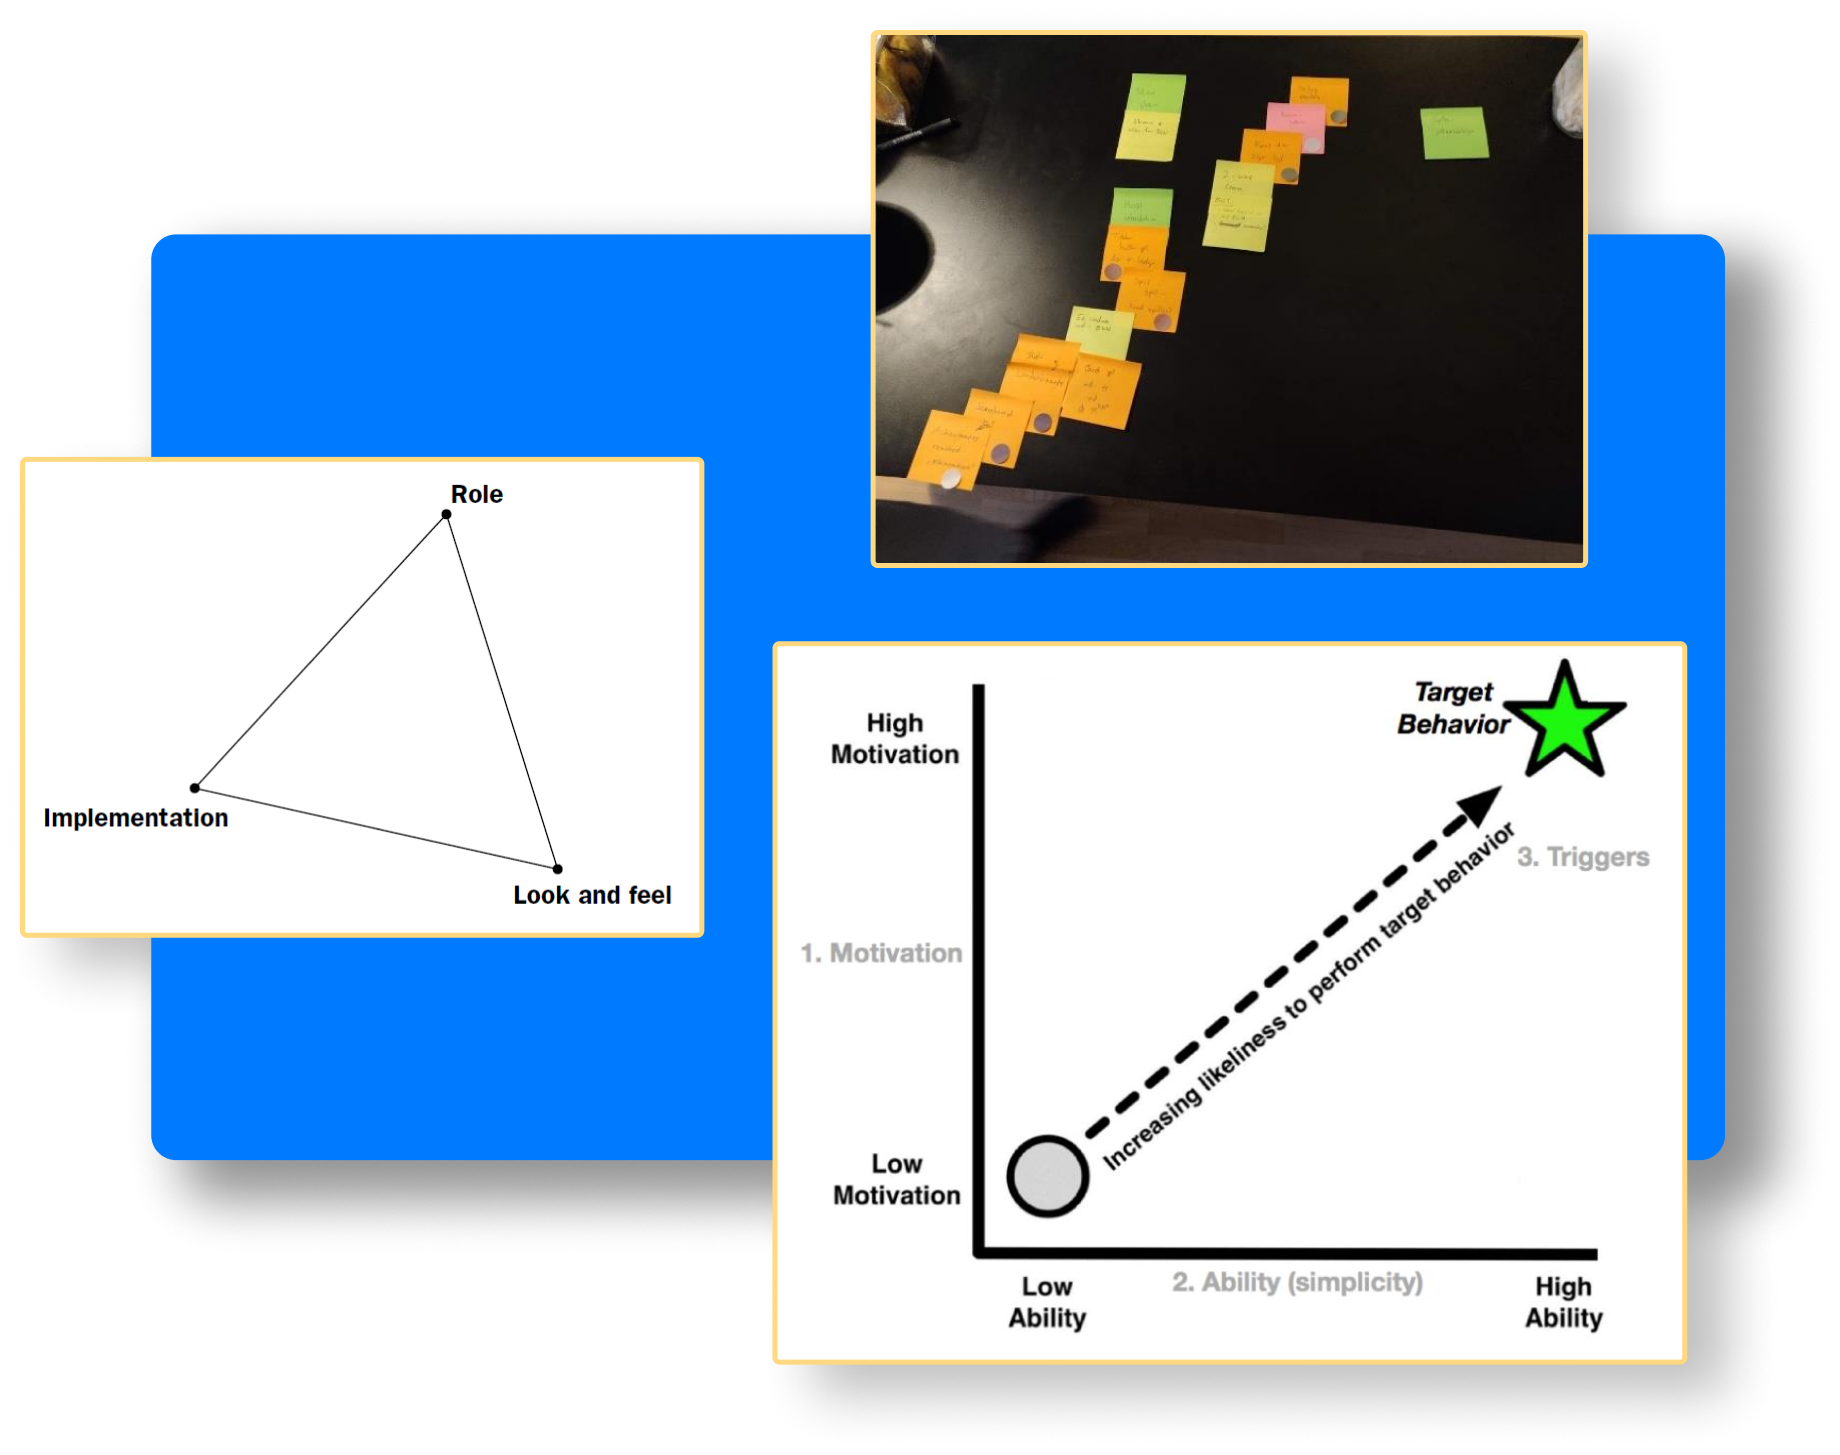
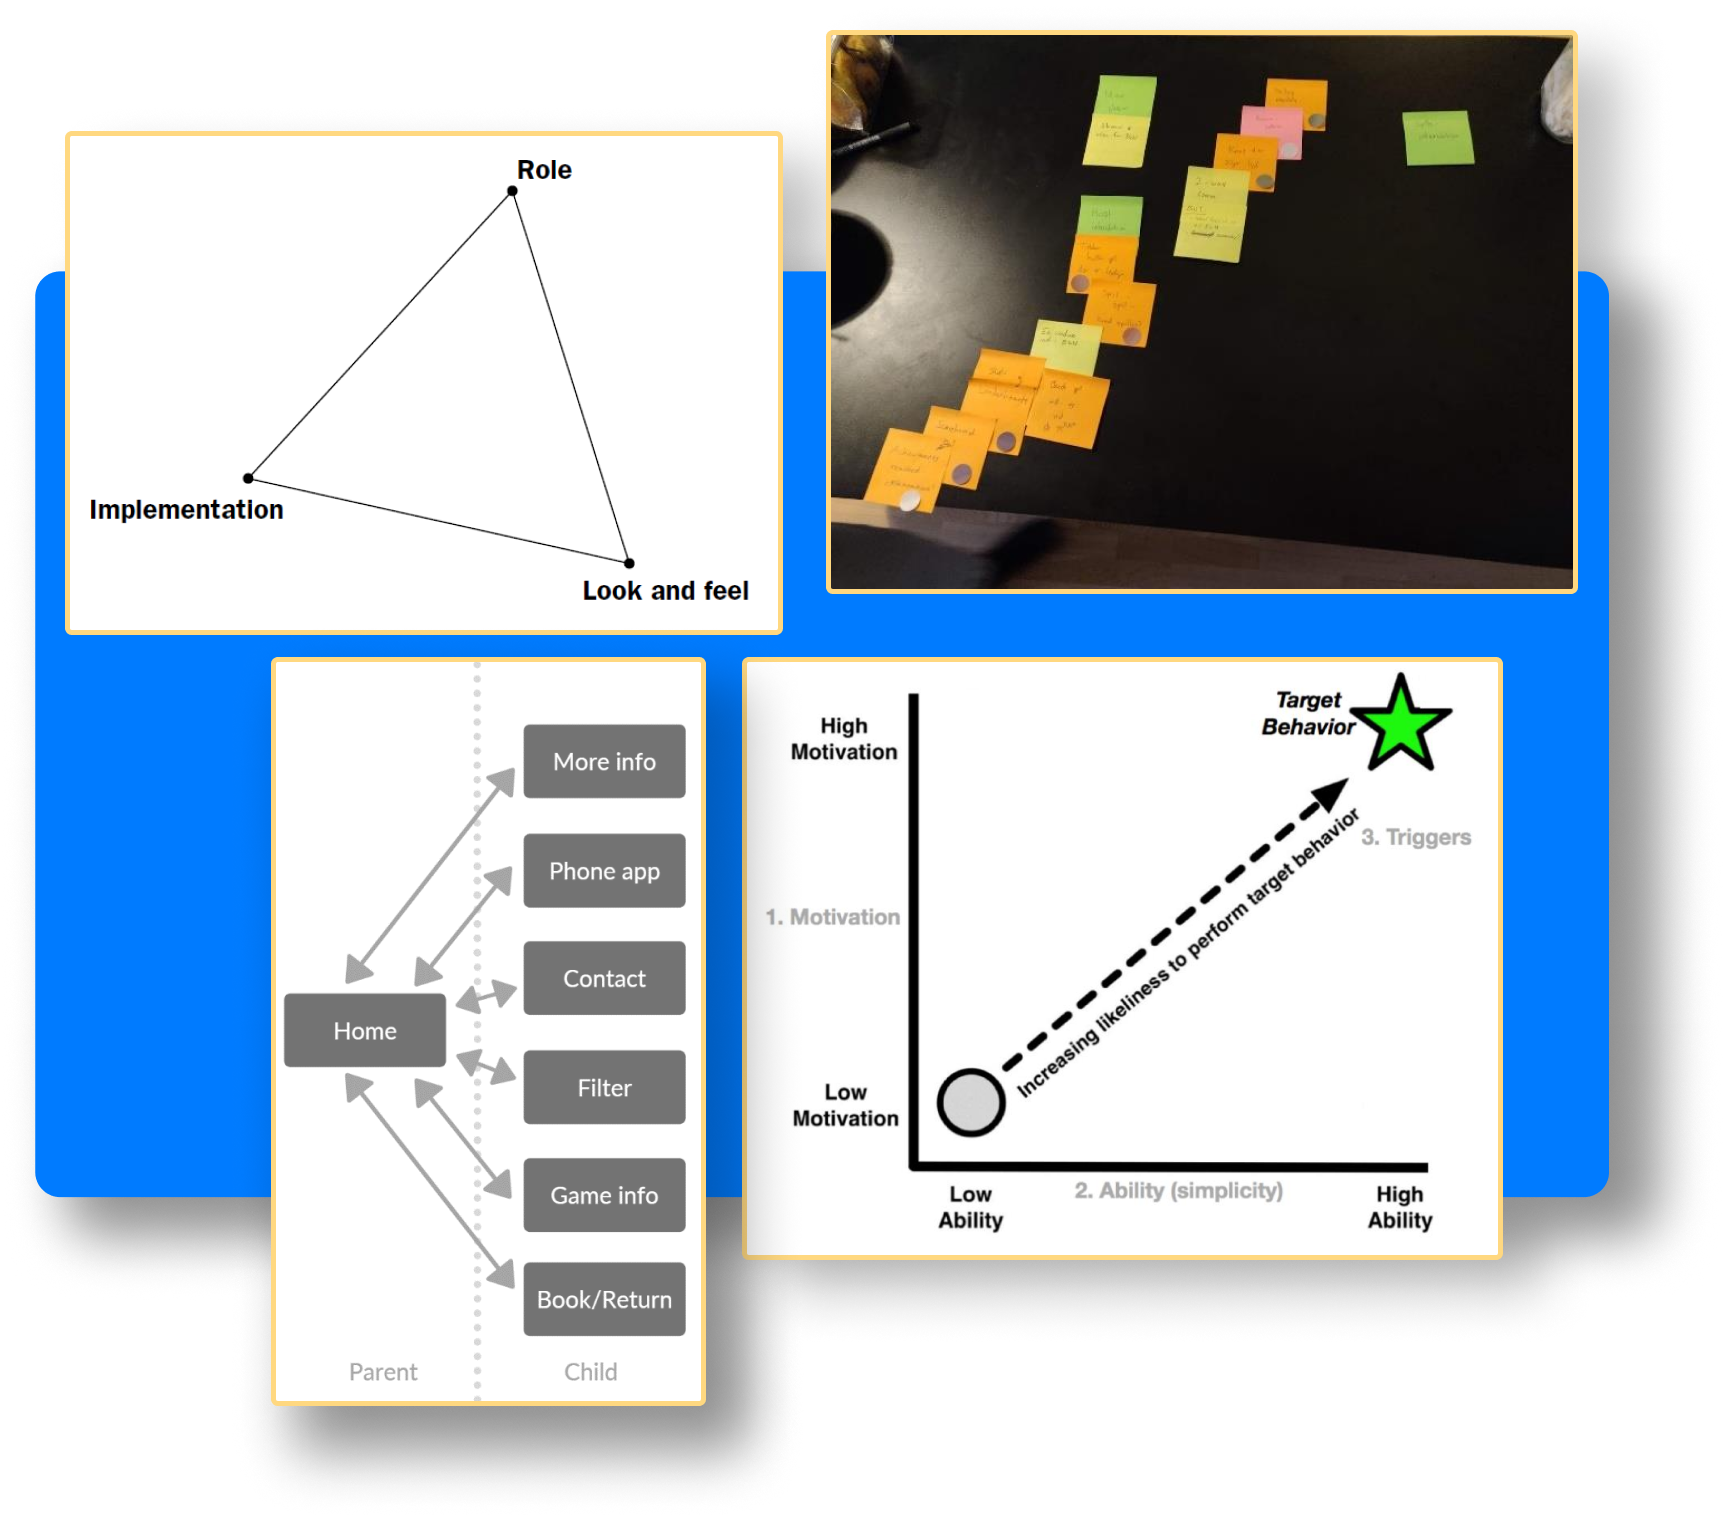
new images and corrections for BGN

diff --git a/_projects/boardgamenight.md b/_projects/boardgamenight.md
@@ -31,11 +31,55 @@ regular participants could benefit from additional guidance in regards to the bo
 {% include elements/figure.html image="https://raw.githubusercontent.com/dani763f/website/main/images/boardgamenight/storyboard1.png" caption="Storyboarding the desired experience" %}  
 
 ## The Solution  
+
+Throughout the process a myriad of methods were used. The overall process followed the design thinking stages, and went through multiple iterations of each stage.
+
 {% include elements/figure.html image="https://raw.githubusercontent.com/dani763f/website/main/images/boardgamenight/designthinking.png" caption="Amount of iterations in each step of the design thinking process" %}  
+
+At the core of the usability work was [Nielsen’s 10 heuristics](https://www.nngroup.com/articles/ten-usability-heuristics/), which describes the empirically derived most common usability problems. By considering these when designing a digital artifact, a lot of usability issues can be mitigated. Among these principles most of the uncovered problems were the following:  
+
+* The heuristic of “help and documentation”, as the app is designed as a piece of documentation for the event itself. This is the motivation behind making the left sidebar static to ensure that there is always help available for the user. Clicking on the buttons in the sidebar will provide the user with further explanations through dialogue boxes.
+* Additionally, we were concerned with the heuristic of “error prevention”. The app should be
+designed both in a way that lets user recover from errors smoothly (as per the “error recovery”
+heuristic), but naturally, it is preferable if you can design the layout in such a way so that the errors
+do not occur in the first place. Specifically, ealier iterations of the prototype allowed one-click booking of games however it was found that this, given the nature of the event, allowed people to accidentally book games. This was mitigated by adding a 'confirm booking' option.
+* In accordance with the “Consistency and standards”-heuristic, it was chosen to employ a navigational framework that the user would be familiar with. We chose to work with Apple’s hierarchical navigation guidelines (Apple Inc, n.d.). This mean that the user makes one choice per screen to navigate forwards or backwards.  
+
+
+
+{% include elements/figure.html image="https://raw.githubusercontent.com/dani763f/website/main/images/boardgamenight/process.png" caption="From top left, to bottom right - Houde and Hill’s model for prototypes (Houde & Hill, 1997), Dotmocracy and sorting of ideas, navigational framework and The Fogg Behavior Model" %}  
+
+As the project revolved around people in their leisure time, it was deemed important for the app to be
+persuasive, in order for the potential users to both want to and be able to engage with the concept.
+Therefore it was found to be useful to utilize Foggs behavior model during the Ideation stage, to assist in iterating and building upon the ideas with specific regards to how one could enhance both ability and
+motivation in the potential user group. As described above, various measures were taken to ensure a high level of ability. Naturally, though, the steps mentioned above taken to improve usability would be
+redundant if the user never interacts with the app. As the app is intended to be displayed on a
+shared tablet, accessible by all attending board game night, it might be occupied at times where multiple users wants to access it. Because of this it was chosen to move some of the functionality - the quick-start
+guide and rulesets - to a smartphone-accessible web app. As these are functionalities that might
+take longer for the individual user to interact and consult with, we wanted to increase the ability
+to use the functions (and also freeing up space to use the “shared” tablet), by moving these
+functionalities unto multiple personal devices at the same time.
 
 {% include elements/figure.html image="https://raw.githubusercontent.com/dani763f/website/main/images/boardgamenight/lowfidelity.png" caption="An early stage low fidelity prototype" %}  
 
-{% include elements/figure.html image="https://raw.githubusercontent.com/dani763f/website/main/images/boardgamenight/process.png" caption="Process work" %}  
+### The Final Prototype
+
+To evaluate the prototype, we made use of methods from each of the three categories of
+evaluation from ["Interaction Design: Beyond Human-Computer Interaction"](http://www.id-book.com/) these being “Controlled settings involving users”, “Natural settings involving users” and “Any setting not involving users”. All three methods were intended as formative evaluations.  
+
+The first of the three evaluations, “Natural settings involving users”, was based on an in-
+situ evaluation, meant to evaluate the situated user experience by testing the prototype in the
+users’ context, i.e. at the board game night. Here, a prototype was present at the event in the context of its intended use, with facilitators present to prompt interaction with the prototype and address potential questions, while notetakers observed and documented findings.  
+
+Additionally, we made use of an “expert test” in the form of a heuristic evaluation, adhering
+to the “Any setting not involving users” category. A heuristic evaluation assesses an interface
+based on a set of agreed-upon best practices for usability.  
+
+The final method, from the “Controlled settings involving users” category, was structured
+around a focus group interview, supplemented by a roleplay-inspired exercise to base the
+discussion on. The focus group consists of a small group of select individuals that, guided by a
+moderator, provide insights into the given issue.  
+
 
 {% include elements/figure.html image="https://raw.githubusercontent.com/dani763f/website/main/images/boardgamenight/prototype/tablet/prototype.png" caption="Prototype for tablets" %}  
 
